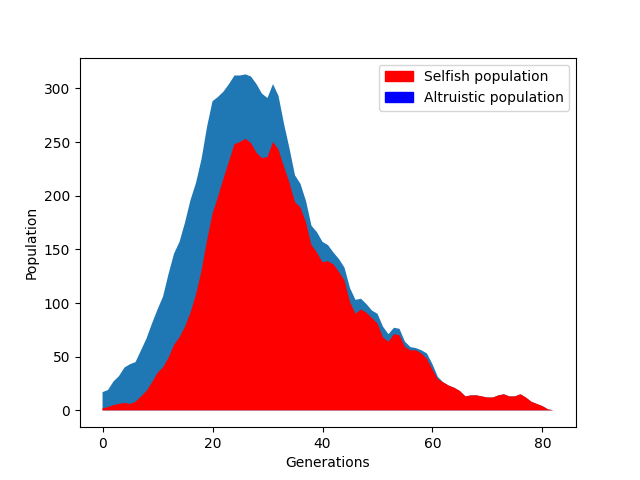
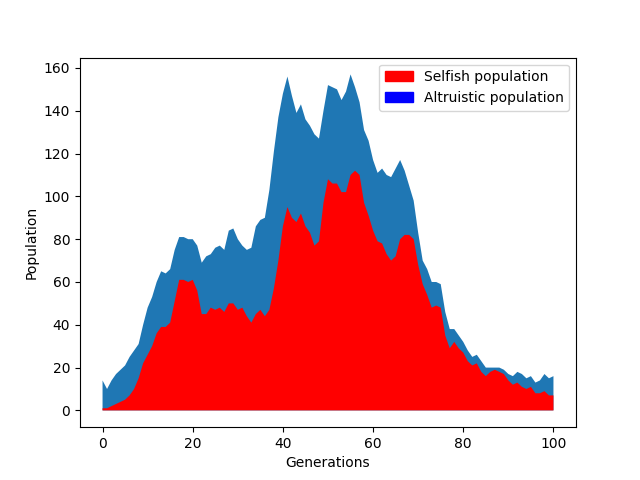
Improved Settings system.

diff --git a/src/simulators/altruisms.py b/src/simulators/altruisms.py
@@ -1,6 +1,6 @@
 from wallawin.src.base_simulator import BaseSimulator
 from wallawin.src.orgs import AltruisticOrganism
-from wallawin.src.settings import SIM_SETTINGS, PLOT_SETTINGS, Settings
+from wallawin.src.settings import PLOT_SETTINGS, SimSettings, TakeOrShareSettings, Traits
 from wallawin.src.plotter import alt_plot_epoch_data, plot_step
 
 from random import randint, uniform, choice
@@ -12,19 +12,20 @@ import numpy as np
 class BaseAltruismSimulator (BaseSimulator):
     """Base class for all Simulators centered on altruismtic traits."""
 
-    def __init__(self, settings):
+    def __init__(self, sim_settings, altruistic_org_traits, selfish_org_traits):
         """
         Parameters
         ---------
-        settings : Settings
+        sim_settings : SimSettings
             Settings object defining the particular settings of this simulator.
         """
-        super().__init__(settings)
-        self.alt_pop = [x for x in self.generation if x.altruistic]
-        self.self_pop = [x for x in self.generation if not x.altruistic]
+        self.altruistic_org_traits = altruistic_org_traits
+        self.selfish_org_traits = selfish_org_traits
+        super().__init__(sim_settings)
+        self.alt_pop = [x for x in self.generation if x.traits.altruistic]
+        self.selfish_pop = [x for x in self.generation if not x.traits.altruistic]
 
-    @staticmethod
-    def gen_population(size):
+    def gen_population(self, size):
         """
         Method that generates an initial set of organisms, halved by altruistic and selfish individuals.
 
@@ -34,9 +35,9 @@ class BaseAltruismSimulator (BaseSimulator):
             The number of organisms of the starting population.
         """
         half = int(size / 2)
-        alt_pop = [AltruisticOrganism(altruistic=True, velocity=5) for x in range(0, half)]
-        self_pop = [AltruisticOrganism(altruistic=False, velocity=5) for x in range(0, half)]
-        return alt_pop + self_pop
+        self.alt_pop = [AltruisticOrganism(self.altruistic_org_traits) for x in range(0, half)]
+        self.selfish_pop = [AltruisticOrganism(self.selfish_org_traits) for x in range(0, half)]
+        return self.alt_pop + self.selfish_pop
 
     def fitness_function(self, org):
         """Evaluate fitness of organism org in relation to the amount of meals it ate.
@@ -59,13 +60,13 @@ class BaseAltruismSimulator (BaseSimulator):
 
         if randint(0, 100) <= rep_chance:
             chiral = copy.deepcopy(org)
-            chiral.pos = np.array([uniform(0, SIM_SETTINGS['ENV_SIZE_X']), uniform(0, SIM_SETTINGS['ENV_SIZE_Y'])])
+            chiral.pos = np.array([uniform(0, self.settings.env_size_x), uniform(0, self.settings.env_size_y)])
             chiral.age = 0
             if randint(0, 100) <= self.settings.mutation_chance:
                 chiral.mutate()
             self.generation.append(chiral)
 
-        if org.age >= self.settings.longevity:
+        if org.age >= org.traits.longevity:
             self.kill(org)
 
         org.pos = org.start_pos
@@ -124,12 +125,12 @@ class BaseAltruismSimulator (BaseSimulator):
         epoch_data : dictionary
             A dictionary containing relevant data from this epoch."""
 
-        speed_values = [x.velocity for x in self.generation]
+        speed_values = [x.traits.velocity for x in self.generation]
 
         pop_size = len(self.generation)
         avg_speed = sum(speed_values) / pop_size if pop_size != 0 else sum(speed_values) / 1
-        abs_altruistic_population = len([x for x in self.generation if x.altruistic])
-        abs_selfish_population = len([x for x in self.generation if not x.altruistic])
+        abs_altruistic_population = len([x for x in self.generation if x.traits.altruistic])
+        abs_selfish_population = len([x for x in self.generation if not x.traits.altruistic])
         epoch_data[epoch] = [pop_size, avg_speed, abs_altruistic_population, abs_selfish_population]
 
     def simulate(self, runs=1):
@@ -149,7 +150,7 @@ class BaseAltruismSimulator (BaseSimulator):
 
             while True:
                 step += 1
-                if step > SIM_SETTINGS['STEPS'] or len(self.generation) == 0:
+                if step > self.settings.steps or len(self.generation) == 0:
                     alt_plot_epoch_data(epoch_data, run)
                     self.generation = self.gen_population(self.settings.pop_size)
                     break
@@ -174,8 +175,8 @@ class SharingSimulator (BaseAltruismSimulator):
     the survival of another altruistic organisms. Selfish organisms will always keep
     their food for themselves."""
 
-    def __init__(self, settings):
-        super().__init__(settings)
+    def __init__(self, sim_settings):
+        super().__init__(sim_settings)
 
     def altruism(self):
         """Simulates altruistic behavior by making altruistic organisms with
@@ -227,19 +228,16 @@ class TakeOrShareSimulator (BaseAltruismSimulator):
         Subset of self.generation containing organisms not competing for a food particle.
         """
 
-    def __init__(self, settings, both_altruistic_chance = 0.5, both_selfish_chance = 0.2,
-                         alt_and_selfish_chance = [0.2, 0.8]):
-        super().__init__(settings)
-        self.both_altruistic_chance = both_altruistic_chance
-        self.both_selfish_chance = both_selfish_chance
-        self.alt_and_selfish_chance = alt_and_selfish_chance
+    def __init__(self, sim_settings, altruistic_org_traits, selfish_org_traits):
+
+        super().__init__(sim_settings, altruistic_org_traits, selfish_org_traits)
         self.competitors = []  # Subset of self.generation containing organisms competing for a food particle.
         self.not_compiting = []  # Subset of self.generation containing organisms not competing for a food particle.
 
-    @staticmethod
-    def gen_population(size):
-        alt_pop = [AltruisticOrganism(altruistic=False, velocity=5)]
-        self_pop = [AltruisticOrganism(altruistic=True, velocity=5) for x in range(0, size - 1)]
+    def gen_population(self, size):
+        print(self.settings)
+        alt_pop = [AltruisticOrganism(self.altruistic_org_traits) for x in range(0, size - 1)]
+        self_pop = [AltruisticOrganism(self.selfish_org_traits)]
         return alt_pop + self_pop
 
     def sim_competition(self, organisms):
@@ -285,15 +283,15 @@ class TakeOrShareSimulator (BaseAltruismSimulator):
 
         for pair in self.competitors:
 
-            if pair[0].altruistic and pair[1].altruistic:
-                pair[0].meals = pair[1].meals = self.both_altruistic_chance
-            if not pair[0].altruistic and not pair[1].altruistic:
-                pair[0].meals = pair[1].meals = self.both_selfish_chance
+            if pair[0].traits.altruistic and pair[1].traits.altruistic:
+                pair[0].meals = pair[1].meals = self.settings.both_altruistic_chance
+            if not pair[0].traits.altruistic and not pair[1].traits.altruistic:
+                pair[0].meals = pair[1].meals = self.settings.both_selfish_chance
             else:
-                selfish = pair[1] if pair[0].altruistic else pair[0]
+                selfish = pair[1] if pair[0].traits.altruistic else pair[0]
                 altruistic = pair[1] if selfish is pair[0] else pair[0]
-                selfish.meals = self.alt_and_selfish_chance[1]
-                altruistic.meals = self.alt_and_selfish_chance[0]
+                selfish.meals = self.settings.alt_and_selfish_chance[1]
+                altruistic.meals = self.settings.alt_and_selfish_chance[0]
 
     def simulate(self, runs=1):
         """Simulate the evolution process, plot and save the data for as many runs
@@ -311,7 +309,7 @@ class TakeOrShareSimulator (BaseAltruismSimulator):
 
             while True:
 
-                if epoch > SIM_SETTINGS['STEPS'] or len(self.generation) == 0:
+                if epoch > self.settings.steps or len(self.generation) == 0:
                     alt_plot_epoch_data(epoch_data, run)
                     break
 
@@ -324,6 +322,12 @@ class TakeOrShareSimulator (BaseAltruismSimulator):
                 epoch += 1
 
 
-SETTINGS = Settings(10, 1, rep_factor=100, longevity=2, starvation=False, static_food_generation=False)
-ENV = TakeOrShareSimulator(SETTINGS)
+SETTINGS = TakeOrShareSettings(steps=100, pop_size=10, abundance=1, rep_factor=100, base_longevity=2, starvation=False,
+                               static_food_generation=False, both_altruistic_chance=0.4, both_selfish_chance=0.1,
+                               alt_and_selfish_chance=[0.2, 0.8])
+
+ALT_ORG_SETTINGS = Traits(longevity=2, altruistic=True)
+SELF_ORG_SETTINGS = Traits(longevity=2, altruistic=False)
+
+ENV = TakeOrShareSimulator(SETTINGS, altruistic_org_traits=ALT_ORG_SETTINGS, selfish_org_traits=SELF_ORG_SETTINGS)
 ENV.simulate()

diff --git a/src/orgs.py b/src/orgs.py
@@ -12,6 +12,8 @@ class BaseOrganism:
 
     Attributes
     ----------
+    longevity : int
+        How many steps will this organism live before dying of old age?
     energy : float
         Amount of energy available to spend in search for food each step. Only
         relevant in simulations involving movement.
@@ -31,10 +33,8 @@ class BaseOrganism:
     meals : int
         Amount of food particles consumed by the organism in each evolutionary step."""
 
-    def __init__(self, velocity=uniform(3, 8)):
-        self.energy = 10
-        self.energy_release = 0.1
-        self.velocity = velocity
+    def __init__(self, traits):
+        self.traits = traits
         self.pos = np.array([uniform(0, SIM_SETTINGS['ENV_SIZE_X']), uniform(0, SIM_SETTINGS['ENV_SIZE_Y'])])
         self.start_pos = self.pos
         self.meals = 0
@@ -52,14 +52,15 @@ class BaseOrganism:
             Set to False by default. If true the organism will not waste energy moving. Useful
             for certain simulations."""
 
-        if self.energy > 0:
+        if self.traits.energy > 0:
             delta = target_pos - self.pos
             distance = dist(target_pos, self.pos)
-            ratio = self.velocity / distance
+            ratio = self.traits.velocity / distance
             direction = ratio * delta
             self.pos = self.pos + direction
             if not effortless:
-                self.energy -= self.velocity * self.energy_release  # More velocity, more energy release.
+                # More velocity, more energy release.
+                self.traits.energy -= self.traits.velocity * self.traits.energy_release
 
     def find_food(self, food):
         """Return the nearest food in the simulation.
@@ -90,7 +91,7 @@ class BaseOrganism:
         str = """
         Organism velocity: {}
         Organism position: {}
-        Organism meals: {}""".format(self.velocity, self.pos, self.meals)
+        Organism meals: {}""".format(self.traits.velocity, self.pos, self.meals)
 
         return str
 
@@ -113,9 +114,8 @@ class AltruisticOrganism (BaseOrganism):
         List of organisms that received food from this organism.
         """
 
-    def __init__(self, velocity=uniform(1, 2), altruistic=None):
-        super().__init__()
-        self.altruistic = bool(getrandbits(1)) if altruistic is None else altruistic
+    def __init__(self, traits):
+        super().__init__(traits)
         self.shared = False
         self.received_from = []  # For future implementation of reciprocity mechanisms, for the moment useless.
         self.shared_to = []
@@ -146,6 +146,6 @@ class AltruisticOrganism (BaseOrganism):
         Organism is altruistic: {}
         Organism velocity: {}
         Organism position: {}
-        Organism meals: {}""".format(self.altruistic, self.velocity, self.pos, self.meals)
+        Organism meals: {}""".format(self.traits.altruistic, self.traits.velocity, self.pos, self.meals)
 
         return str

diff --git a/src/settings.py b/src/settings.py
@@ -14,19 +14,45 @@ PLOT_SETTINGS = {'PLOT': False,
 ENV_SETTINGS = {'POP_SIZE'}
 
 
-class Settings:
+class SimSettings:
 
-    def __init__(self, pop_size, abundance, mutation_chance=10, mutability=1.2, feading_range=10, longevity=400000,
-                 risk=0, rep_factor=40, starvation=True, static_food_generation=True):
+    def __init__(self, steps, pop_size, abundance, mutation_chance=10, mutability=1.2, feading_range=10, base_longevity=400000,
+                 risk=0, rep_factor=40, starvation=True, static_food_generation=True, env_size_x=100, env_size_y=100):
+        self.steps = steps
         self.pop_size = pop_size
         self.abundance = abundance
         self.mutation_chance = mutation_chance
         self.mutability = mutability
         self.feading_range = feading_range
-        self.longevity = longevity
+        self.base_longevity = base_longevity
         self.risk = risk
         self.rep_factor = rep_factor
         self.starvation = starvation
         self.static_food_generation = static_food_generation
+        self.env_size_x = env_size_x
+        self.env_size_y = env_size_y
+
+
+class TakeOrShareSettings(SimSettings):
+
+    def __init__(self, steps, pop_size, abundance, both_altruistic_chance, both_selfish_chance, alt_and_selfish_chance,
+                 mutation_chance=10, mutability=1.2, feading_range=10, base_longevity=400000, risk=0, rep_factor=40,
+                 starvation=True, static_food_generation=True, env_size_x=100, env_size_y=100):
+
+        super().__init__(steps, pop_size, abundance, mutation_chance, mutability, feading_range, base_longevity,
+                         risk, rep_factor, starvation, static_food_generation, env_size_x, env_size_y)
+        self.both_altruistic_chance = both_altruistic_chance
+        self.both_selfish_chance = both_selfish_chance
+        self.alt_and_selfish_chance = alt_and_selfish_chance
+
+
+class Traits:
+
+    def __init__(self, longevity, altruistic, velocity=5, energy=10, energy_release=0.1):
+        self.longevity = longevity
+        self.velocity = velocity
+        self.energy = energy
+        self.energy_release = energy_release
+        self.altruistic = altruistic
 
 

diff --git a/src/base_simulator.py b/src/base_simulator.py
@@ -20,18 +20,18 @@ class BaseSimulator:
 
     Attributes
     ----------
-    settings: Settings
+    sim_settings: Settings
         a Settings object that defines the population size, abundance of food,
         base mutation chance, base mutability, feading range of the organisms
         (for simulations involving movement) and longevity.
         """
 
-    def __init__(self, settings):
+    def __init__(self, sim_settings):
         """Simulator object. Simulates the whole evolutionary process. Takes
         a Settings object as argument."""
 
-        self.settings = settings
-        self.generation = self.gen_population(settings.pop_size)
+        self.settings = sim_settings
+        self.generation = self.gen_population(sim_settings.pop_size)
         self.food = self.gen_food()
 
     def gen_food(self):
@@ -47,8 +47,7 @@ class BaseSimulator:
 
         return food
 
-    @staticmethod
-    def gen_population(size):
+    def gen_population(self, size):
         """Base method for population generation."""
         pass
 

diff --git a/src/simulators/depletions.py b/src/simulators/depletions.py
@@ -11,13 +11,13 @@ class DepletionEnvironment (BaseSimulator):
     After the food is done or everyone ate two meals, natural selection is applied
     and a new offspring generated."""
 
-    def __init__(self, settings):
-        super().__init__(settings)
+    def __init__(self, sim_settings, org_settings):
+        super().__init__(sim_settings)
+        self.org_settings = org_settings
 
-    @staticmethod
-    def gen_population(size):
+    def gen_population(self, size):
 
-        population = [BaseOrganism() for x in range(0, size)]
+        population = [BaseOrganism(self.org_settings) for x in range(0, size)]
         return population
 
     def evolve(self):
